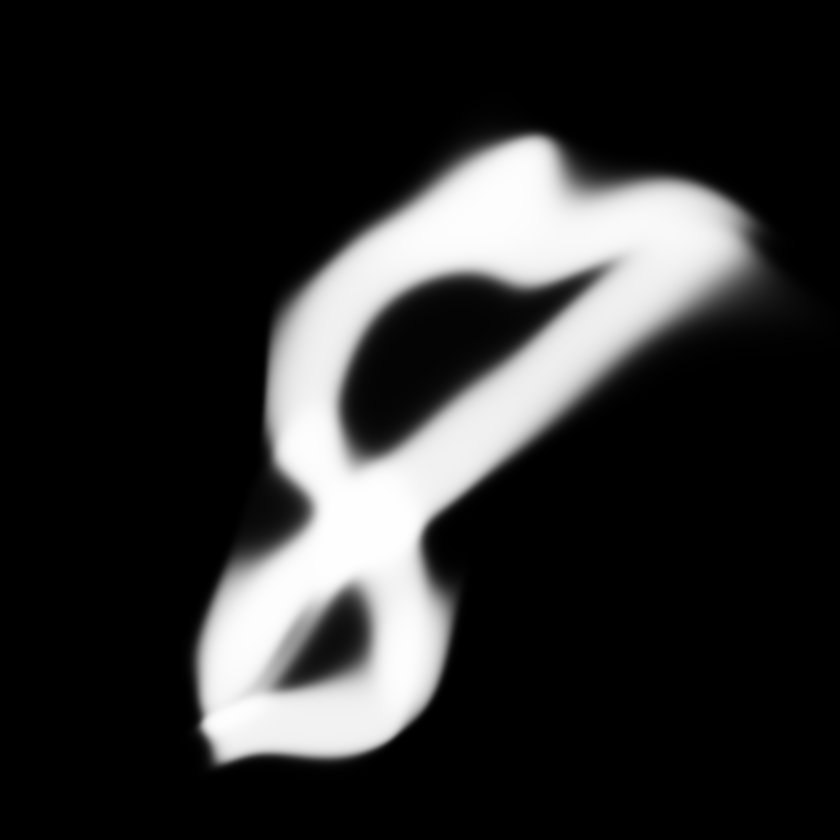
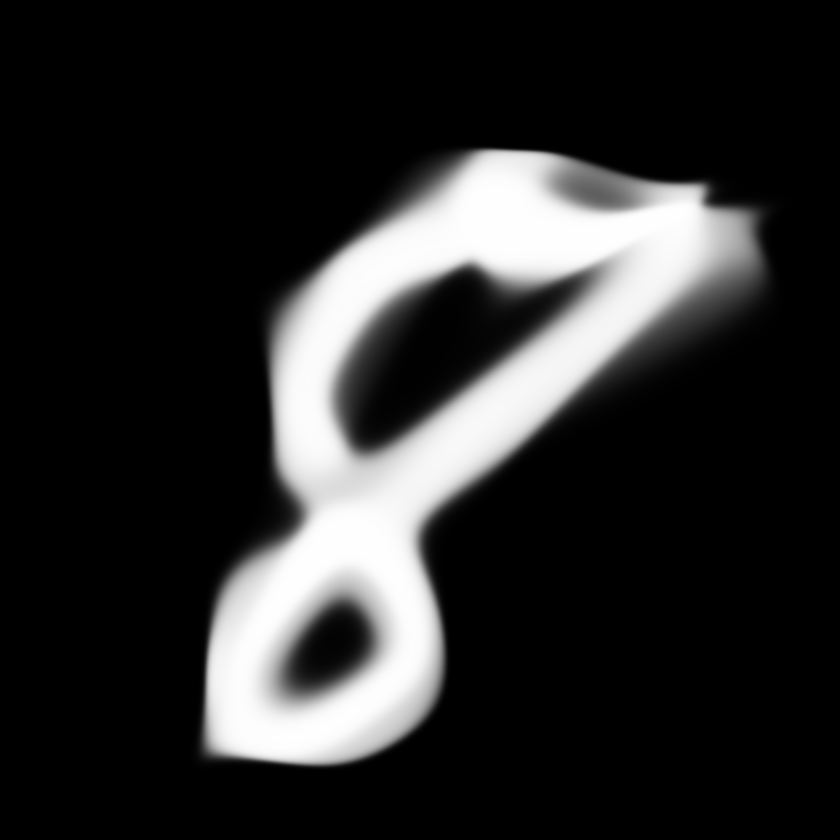
Add files via upload

diff --git a/rna/estrutura/Camada.java b/rna/estrutura/Camada.java
@@ -132,28 +132,6 @@ public class Camada implements Cloneable{
    }
 
    /**
-    * Realiza a operação do somatório de cada peso do neurônio com sua entrada.
-    * <p>
-    *    As entradas do neurônio correspondem ás saídas dos neurônios da camada anterior.
-    *    Com isso cada neurônio multiplica o {@code peso} da conexão pelo valor da {@code entrada}
-    *    correspondente.
-    * </p>
-    * <p>
-    *    Após o somatório é aplicada a função de ativação em cada neurônio e o resultado
-    *    é salvo na sua {@code saída}.
-    * </p>
-    * @param anterior camada anterior que contém os valores de saída dos neurônios.
-    */
-   public void ativarNeuronios(double[] entrada){
-      this.verificarInicializacao();
-
-      for(int i = 0; i < this.neuronios.length; i++){
-         this.neuronios[i].calcularSaida(entrada);
-      }
-      this.ativacao.ativar(this.neuronios);
-   }
-
-   /**
     * Configura a função de ativação da camada.
     * <p>
     *    Ativações disponíveis:
@@ -216,6 +194,28 @@ public class Camada implements Cloneable{
       }
 
       this.ativacao = ativacao;
+   }
+
+   /**
+    * Realiza a operação do somatório de cada peso do neurônio com sua entrada.
+    * <p>
+    *    As entradas do neurônio correspondem ás saídas dos neurônios da camada anterior.
+    *    Com isso cada neurônio multiplica o {@code peso} da conexão pelo valor da {@code entrada}
+    *    correspondente.
+    * </p>
+    * <p>
+    *    Após o somatório é aplicada a função de ativação em cada neurônio e o resultado
+    *    é salvo na sua {@code saída}.
+    * </p>
+    * @param entrada dados de entrada que serão processados pelos neurônios.
+    */
+   public void ativarNeuronios(double[] entrada){
+      this.verificarInicializacao();
+
+      for(int i = 0; i < this.neuronios.length; i++){
+         this.neuronios[i].calcularSaida(entrada);
+      }
+      this.ativacao.ativar(this.neuronios);
    }
 
    /**

diff --git a/rna/ativacoes/LeakyReLU.java b/rna/ativacoes/LeakyReLU.java
@@ -18,8 +18,12 @@ public class LeakyReLU extends FuncaoAtivacao{
    private double alfa;
 
    /**
-    * Instancia a função de ativação LeakyReLU com 
-    * seu valor de alfa configurável.
+    * Instancia a função de ativação LeakyReLU com seu valor de alfa configurável.
+    * <p>
+    *    A ativação LeakyReLU funciona semelhante a função ReLU, retornando o próprio 
+    *    valor recebido caso ele seja maior que um, mas caso contrário ela retorna um 
+    *    pequeno valor alfa que será multiplicado pela saída.
+    * </p>
     * @param alfa novo valor alfa.
     */
    public LeakyReLU(double alfa){
@@ -27,8 +31,12 @@ public class LeakyReLU extends FuncaoAtivacao{
    }
 
    /**
-    * Instancia a função de ativação LeakyReLU com 
-    * seu valor de alfa padrão.
+    * Instancia a função de ativação LeakyReLU com o valor de alfa padrão.
+    * <p>
+    *    A ativação LeakyReLU funciona semelhante a função ReLU, retornando o próprio 
+    *    valor recebido caso ele seja maior que um, mas caso contrário ela retorna um 
+    *    pequeno valor alfa que será multiplicado pela saída.
+    * </p>
     * <p>
     *    O valor padrão para o alfa é {@code 0.01}.
     * </p>

diff --git a/rna/ativacoes/Sigmoid.java b/rna/ativacoes/Sigmoid.java
@@ -9,7 +9,12 @@ import rna.estrutura.Neuronio;
 public class Sigmoid extends FuncaoAtivacao{
 
    /**
-    * Instancia a função de ativação Sigmoid.
+    * Instancia a função de ativação Sigmóide.
+    * <p>
+    *    A função Sigmóide é uma função de ativação que transforma os valores de 
+    *    entrada em um intervalo entre 0 e 1, transformando os valores de saída 
+    *    num formato de "S" em relação a origem no eixo x.
+    * </p>
     */
    public Sigmoid(){
 
@@ -29,8 +34,7 @@ public class Sigmoid extends FuncaoAtivacao{
    @Override
    public void derivada(Neuronio[] neuronios){
       for(int i = 0; i < neuronios.length; i++){
-         double sig = neuronios[i].saida;
-         neuronios[i].derivada = sig * (1 - sig);
+         neuronios[i].derivada = neuronios[i].saida * (1 - neuronios[i].saida);
       }
    }
 }

diff --git a/rna/ativacoes/Argmax.java b/rna/ativacoes/Argmax.java
@@ -10,6 +10,12 @@ public class Argmax extends FuncaoAtivacao{
 
    /**
     * Intancia uma nova função de ativação Softmax.
+    * <p>
+    *    A função argmax encontra o maior valor de saída dentre os neurônios
+    *    da camada e converte ele para 1, as demais saídas dos neurônios serão
+    *    convertidas para zero, fazendo a camada classificar uma única saída com
+    *    base no maior valor.
+    * </p>
     */
    public Argmax(){
 

diff --git a/rna/ativacoes/Softmax.java b/rna/ativacoes/Softmax.java
@@ -9,7 +9,11 @@ import rna.estrutura.Neuronio;
 public class Softmax extends FuncaoAtivacao{
 
    /**
-    * Instancia uma nova função de ativação Softmax.
+    * Instancia a função de ativação Softmax.
+    * <p>
+    * A função Softmax  transforma os valores de entrada em probabilidades normalizadas, 
+    * permitindo que o neurônio com a maior saída tenha uma probabilidade mais alta.
+    * </p>
     */
    public Softmax(){
 

diff --git a/Main.java b/Main.java
@@ -28,7 +28,7 @@ class Main{
    static final String caminhoArquivo = "/dados/mnist/8.png";
 
    static final String caminhoImagemExportada = "./resultados/imagem-ampliada";
-   static final int epocas = 100*1000;
+   static final int epocas = 10*1000;
    static final float escalaRender = 8f;
    static final float escalaImagemExportada = 30f;
 

diff --git a/rna/ativacoes/ReLU.java b/rna/ativacoes/ReLU.java
@@ -10,6 +10,10 @@ public class ReLU extends FuncaoAtivacao{
 
    /**
     * Instancia a função de ativação ReLU.
+    * <p>
+    *    A ativação ReLU (Rectified Linear Unit) funciona retornando o próprio valor recebido
+    *    caso ele seja maior que um, caso contrário ela retorna zero.
+    * </p>
     */
    public ReLU(){
 
